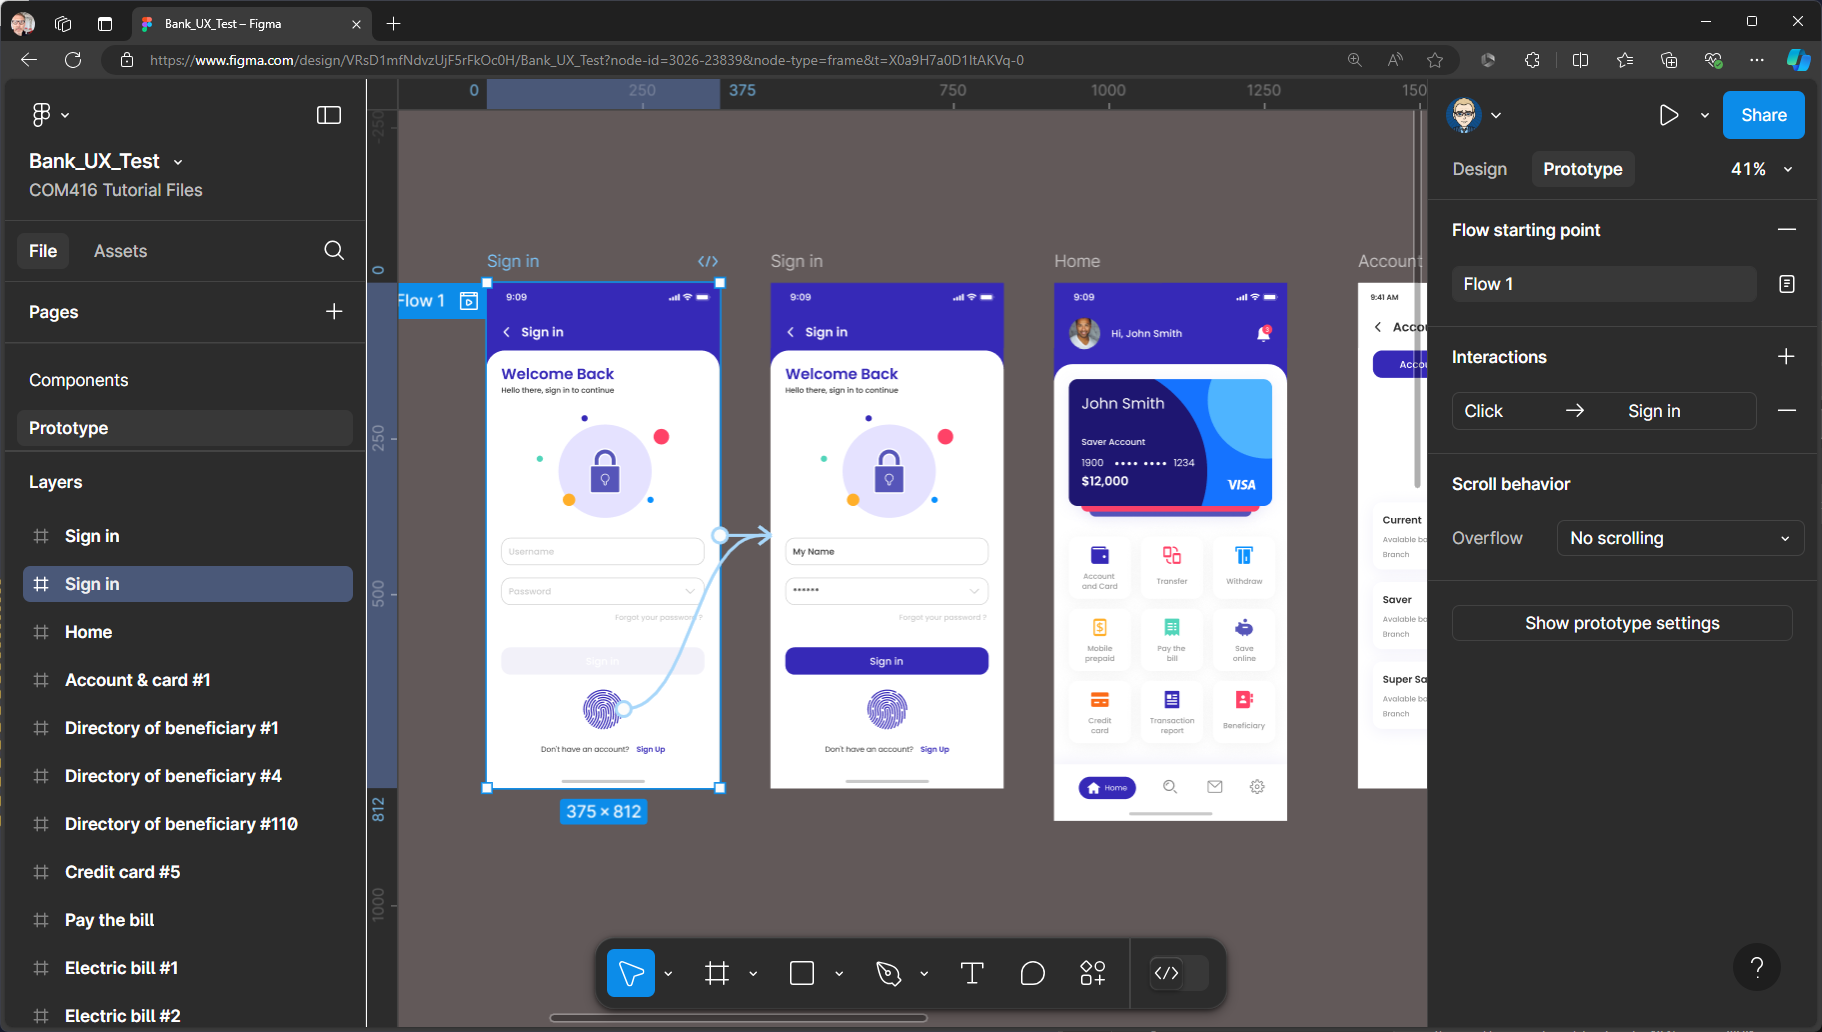
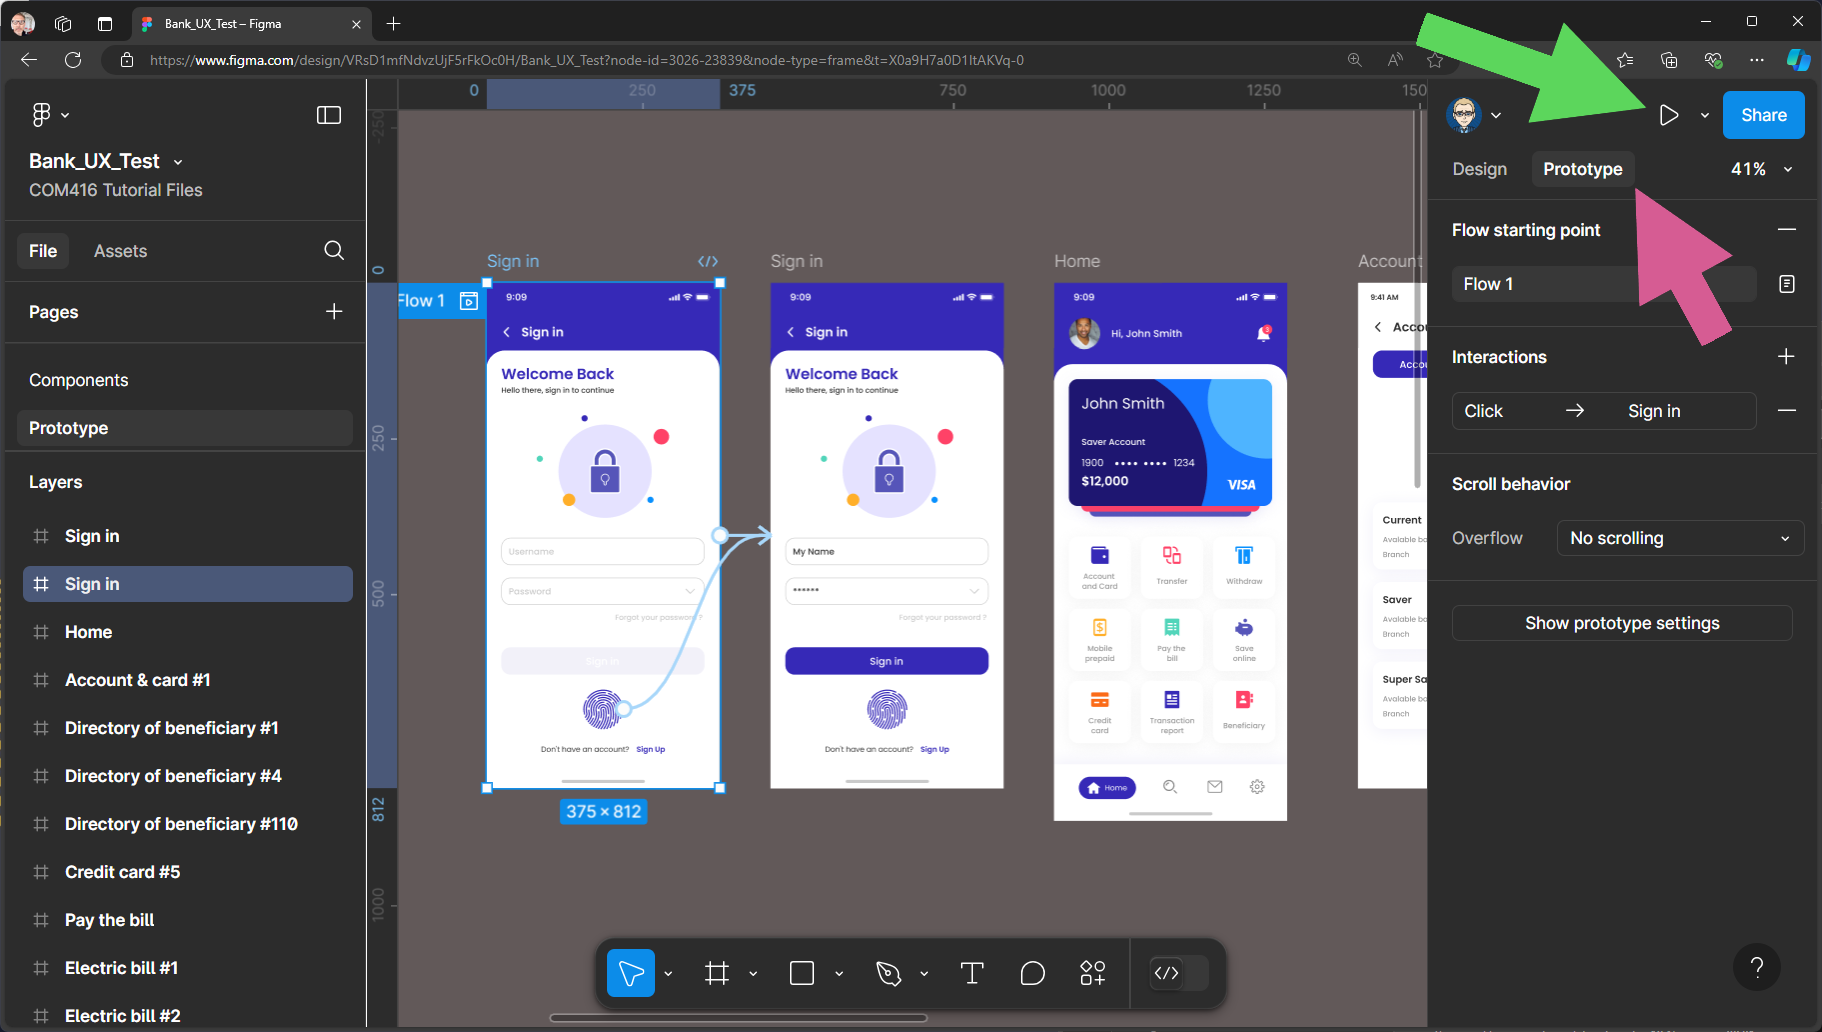
update share proto

Changed region(s): [[0.7684, 0.0, 0.9221, 0.124], [0.8913, 0.186, 0.9528, 0.3411]]

diff --git a/docs/sharing/child_5.md b/docs/sharing/child_5.md
@@ -1,0 +1,63 @@
+---
+layout: default
+title: Share Your Prototype
+parent: Sharing
+nav_order: 6
+---
+
+{: .no_toc }
+
+# Share Your Prototype
+You have made your Prototype and it time to share and use it in a UX testing session.
+
+1. Select the first screen (Frame) of your Prototype
+
+![](../images/proto_share/imag_1.png)
+
+2. Change the Design view to Prototype
+
+![](../images/proto_share/imag_3.png)
+
+3. Click on Share Prototype button
+
+![](../images/proto_share/share_button.png)
+
+4. You can email an invite to people or you can have it accessible to everyone - you can click to change
+
+![](../images/proto_share/imag_6.png)
+
+5. Invite Only or Anyone
+
+![](../images/proto_share/anyone.png)
+
+6. You can share either as a Link (best option) or an embed code to put on a website
+
+![](../images/proto_share/embed.png)
+
+Code will look like this - **ONLY USE THIS OPTION IT YOU ARE ADDING TO A WEBSITE**
+![](../images/proto_share/imag_8.png)
+
+
+### Is your Prototype running slowly?
+
+If your Prototype is running slowly this might be due to the image file size being too large, you can use the **Downsize Plugin** to reduce image size with Figma.
+
+![](../images/proto_share/imag_10.png)
+
+1. Go back to the Design view - right-mouse on the pasteboard **Plugins > Manage Plugins**
+
+![](../images/proto_share/imag_12.png)
+
+2. Search for **Downsize**
+
+![](../images/proto_share/imag_15.png)
+
+3. Click the **Save** button to install the Plugin
+
+![](../images/proto_share/imag_16.png)
+
+
+
+
+
+
